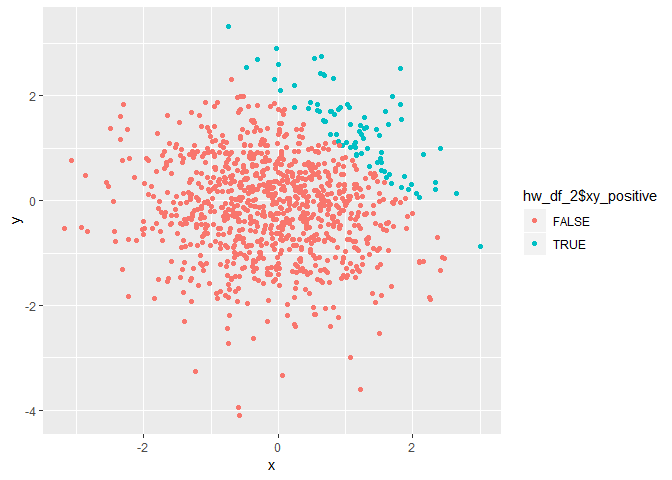
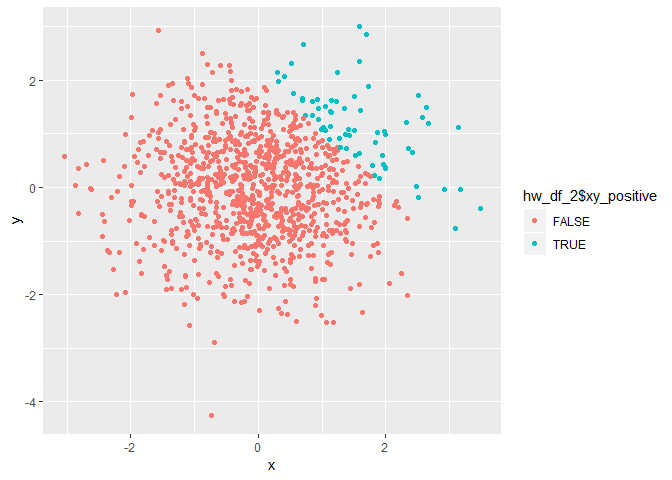
final stylistic edits

diff --git a/p8105_hw1_clc2229.md b/p8105_hw1_clc2229.md
@@ -30,14 +30,14 @@ The following code chunk attempts to calculate the mean of each of the four elem
 mean(hw_df$random_sample_10)
 ```
 
-    ## [1] 2.072243
+    ## [1] 2.894446
 
 ``` r
 ## take the mean of the logical vector
 mean(hw_df$vec_logical_gt2)
 ```
 
-    ## [1] 0.4
+    ## [1] 0.6
 
 ``` r
 ## take the mean of the character vector
@@ -59,7 +59,7 @@ mean(hw_df$vec_factor_10)
 
     ## [1] NA
 
-The output of the above code chunk shows that we are able to calculate a mean of approximately 2.07 and 0.4 for the **random sample** and the **logical vector**, respectively.
+The output of the above code chunk shows that we are able to calculate a mean of approximately 2.89 and 0.6 for the **random sample** and the **logical vector**, respectively.
 
 However, we are *not* able to calculate the mean of the **character vector** and the **factor vector**. The associated error message explains that this is because the mean() function requires numeric or logical arguments. Since the character vector and factor vector are neither numeric nor logical, the mean() function returns NA for these two vectors.
 
@@ -76,7 +76,7 @@ mean(as.numeric(hw_df$vec_char_10))
 mean(as.numeric(hw_df$vec_factor_10))
 ```
 
-The output of the above code chunk shows that the mean of the logical vector is the same as the mean we calculated during our first attempt (i.e. 0.4). Further, we see that the mean of the factor vector can now be computed and is equal to 1.5.
+The output of the above code chunk shows that the mean of the logical vector is the same as the mean we calculated during our first attempt (i.e. 0.6). Further, we see that the mean of the factor vector can now be computed and is equal to 1.5.
 
 However, we are still *unsuccessful* in our attempt to calculate the mean of the character vector because treating the character vector as numeric results in NA.
 
@@ -123,7 +123,7 @@ hw_df_2 = tibble(
 )
 ```
 
-The dataframe created by the above code chunk has a size of: rows = 1000, columns = 5. The mean of x is -0.03. The median of x is -0.02. The proportion of cases for which the logical vector is TRUE is 0.081.
+The dataframe created by the above code chunk has a size of: rows = 1000, columns = 5. The mean of x is 0. The median of x is -0.02. The proportion of cases for which the logical vector is TRUE is 0.066.
 
 The following code chunk creates a 3 different scatter plots: \* one colored using the logical vector \* one colored using the logical vector that has been treated as numeric \* one colored using the logical vector that has been treated as a factor
 
@@ -154,4 +154,4 @@ ggplot(hw_df_2, aes(x = x, y = y, color = hw_df_2$logical_as_factor)) + geom_poi
 
 ![](p8105_hw1_clc2229_files/figure-markdown_github/scatterplot%20chunk-3.png)
 
-The above scatter plots show how the color scales differ depending on the properties of the variables used in the color statement. Specifically, since the logical and factor vectors have discrete values, there are discrete color codes. On the other hand, using a numeric variables results in a gradient of colors because a numeric variable can be continuous.
+The above scatter plots show how the color scales differ depending on the properties of the variables used in the color statement. Specifically, since the logical and factor vectors have discrete values, there are discrete color codes. On the other hand, using a numeric variable results in a gradient of colors because a numeric variable can be continuous.
